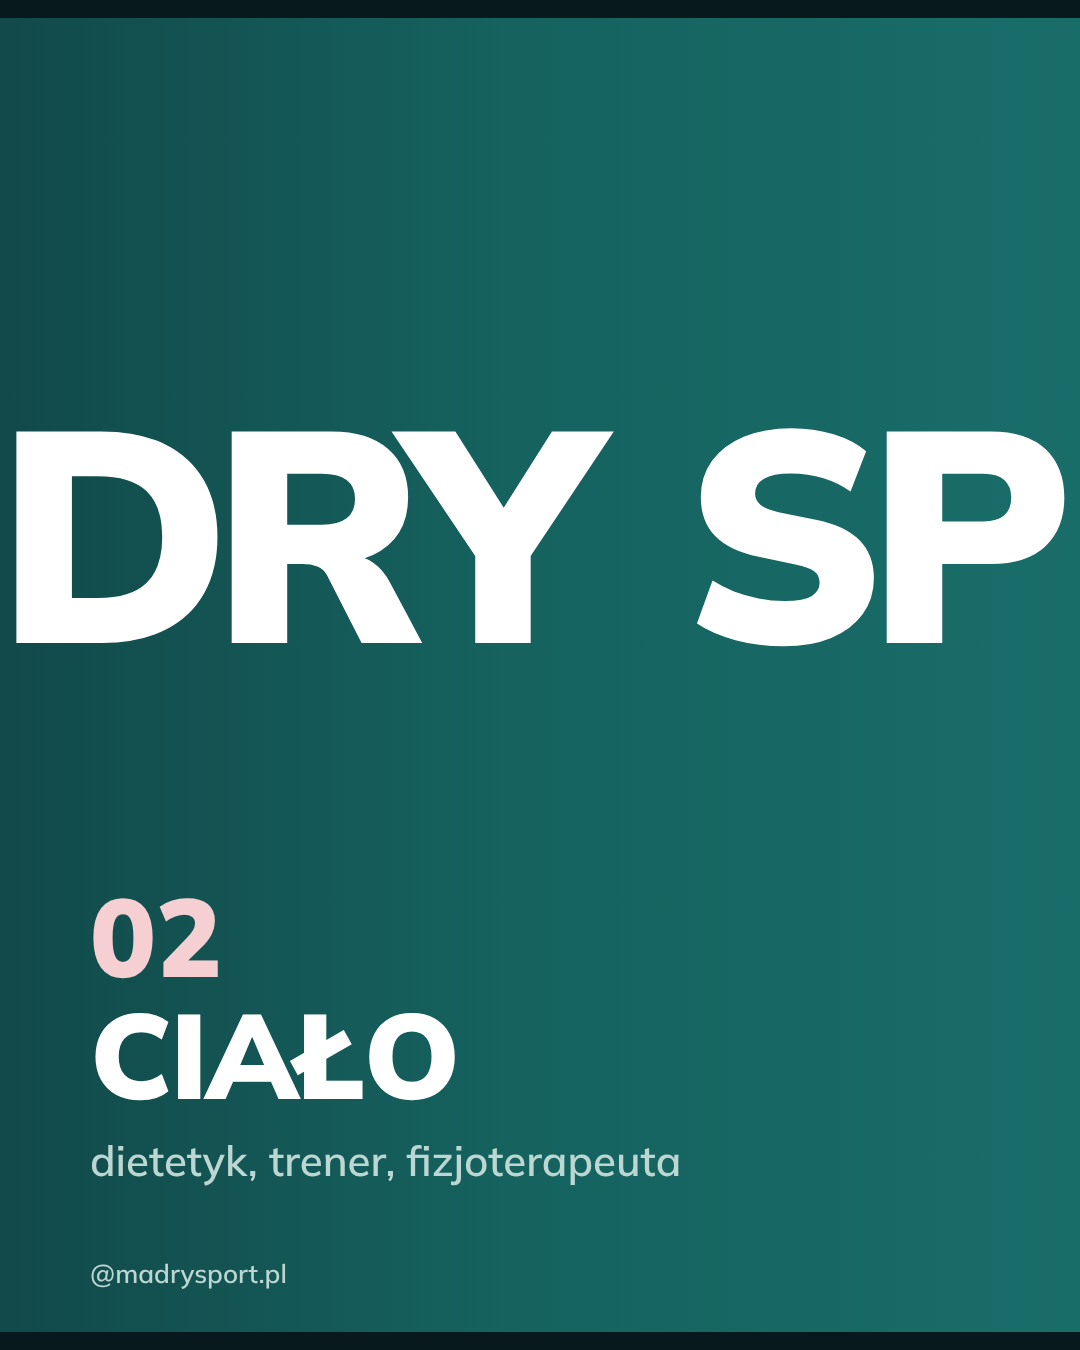
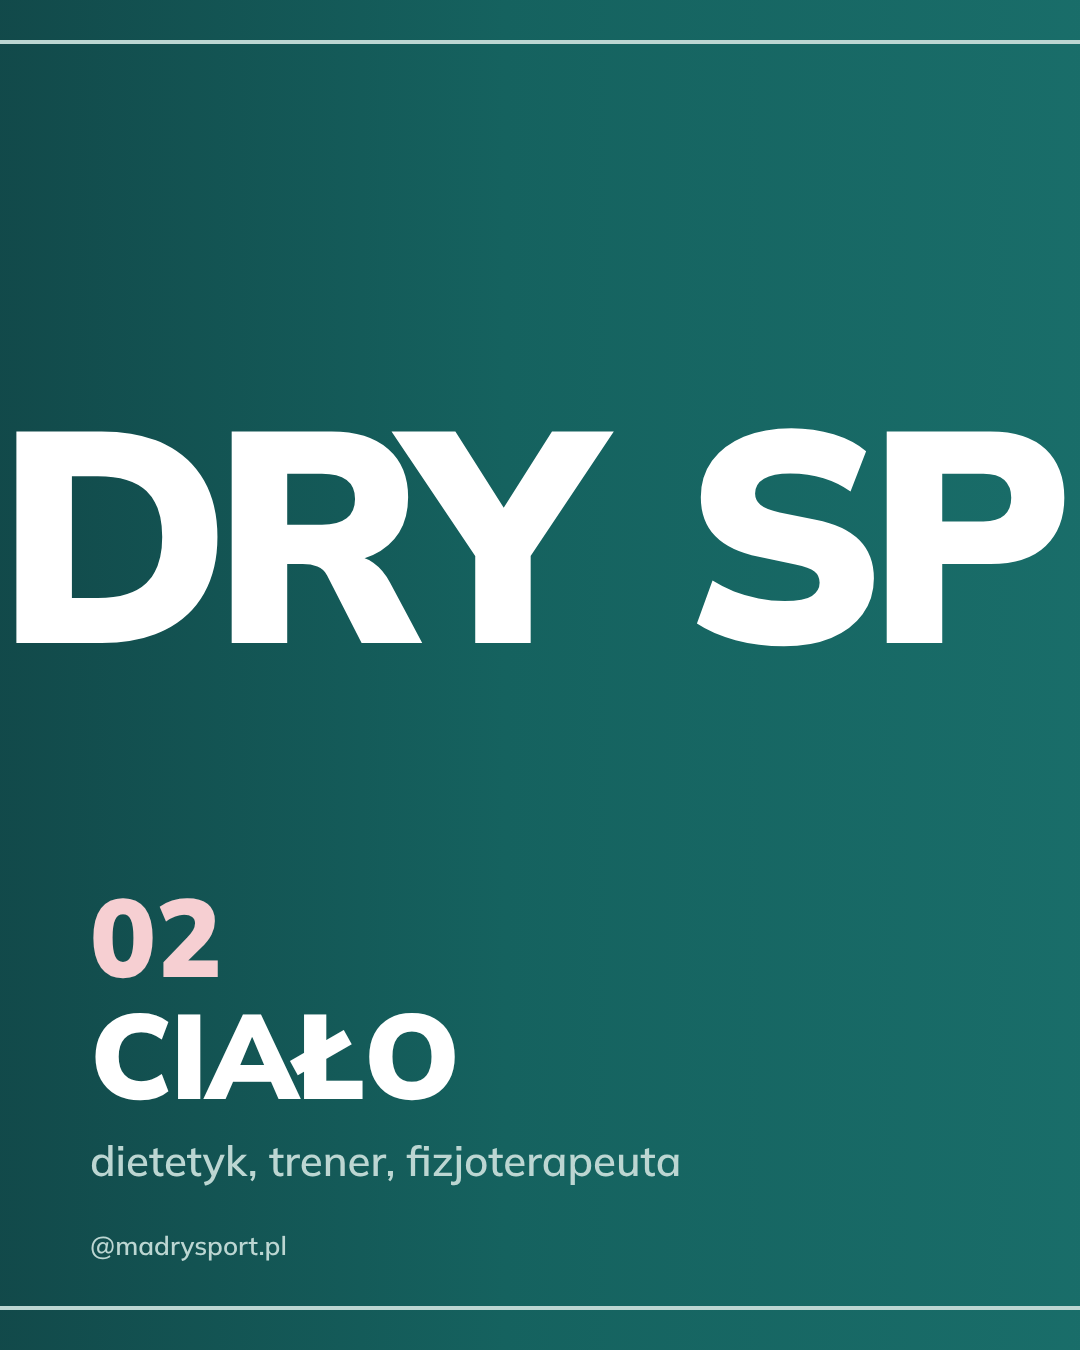
Mądry Sport: przypięte posty z miętową linią zamiast ciemnej ramki
Claude-Session: https://claude.ai/code/session_01A5PTvWpyS7iEo6fG2kmJPS

Changed region(s): [[0.0, 0.9022, 1.0, 1.0], [0.0, 0.0, 1.0, 0.0311]]

diff --git a/tools/przypiete-madry.js b/tools/przypiete-madry.js
@@ -10,7 +10,7 @@ const row=(v)=>{const tiles=[0,1,2].map(i=>{const t=v.tiles[i];return `<div clas
  <div class="b"><div class="k" style="color:${t.acc}">0${i+1}</div><div class="h" style="color:${t.ink}">${L[i][0]}</div><div class="s" style="color:${t.sub}">${L[i][1]}</div></div>
  <div class="f" style="color:${t.sub}">@madrysport.pl</div></div>`}).join('');return `<div class="lab"><b>${v.n}</b> ${v.name}</div><div class="row">${tiles}</div>`};
 const word=(c,fs,dot)=>`<div class="w" style="color:${c};font-size:${fs}px">MĄDRY<br>SPORT<span style="font-size:${fs*.36}px;color:${dot||c}">.pl</span></div>`;
-const G=`<div style="position:absolute;inset:0;border:18px solid #07191C;box-sizing:border-box;z-index:2"></div><div style="position:absolute;inset:0;background:linear-gradient(90deg,${DG} 0%,${DG} 12%,${TQ} 50%,${T2} 88%,${T2} 100%)"></div>`;
+const G=`<div style="position:absolute;inset:40px;border:4px solid #BCD6D2;box-sizing:border-box;z-index:2"></div><div style="position:absolute;inset:0;background:linear-gradient(90deg,${DG} 0%,${DG} 12%,${TQ} 50%,${T2} 88%,${T2} 100%)"></div>`;
 const tl=[{bg:'transparent',ink:'#fff',acc:PK,sub:MI},{bg:'transparent',ink:'#fff',acc:PK,sub:MI},{bg:'transparent',ink:'#fff',acc:PK,sub:LT}];
 const V=[{n:'1',sh:[0,-35,-47],name:'Ciasne litery, przerwy między Ą i D oraz P i O',tiles:tl,layer:G+`<div style="position:absolute;left:343px;top:330px;display:inline-flex;align-items:center;gap:56px">${shield('#fff',400)}<div class="w" style="color:#fff;font-size:300px;letter-spacing:-8px">M<span style="letter-spacing:55px">Ą</span><span style="letter-spacing:-19px">DRY</span><span style="letter-spacing:16px"> </span><span style="letter-spacing:-19px">S</span><span style="letter-spacing:22px">P</span>ORT<span style="font-size:110px;color:${PK};letter-spacing:0">.pl</span></div></div>`}];
 const html=`<!doctype html><meta charset=utf-8><style>
@@ -23,7 +23,7 @@ body{margin:0;background:#fff;font-family:M;width:1140px;padding:30px}
 .row{display:flex;gap:6px}.t{width:1080px;height:1350px;position:relative;overflow:hidden;flex:none}
 .w{font-weight:900;line-height:1.02;white-space:nowrap}
 .b{position:absolute;left:90px;right:80px;bottom:160px}.k{font-weight:900;font-size:110px;line-height:1}.h{font-weight:900;font-size:120px;line-height:1.05;letter-spacing:-2px}.s{font-weight:600;font-size:42px;line-height:1.35;margin-top:16px}
-.f{position:absolute;left:90px;bottom:60px;font-weight:600;font-size:26px}
+.f{position:absolute;left:90px;bottom:88px;font-weight:600;font-size:26px}
 </style>${V.map(row).join('')}`;
 fs.writeFileSync(path.join(T,'.pano.html'),html);
 (async()=>{const {chromium}=require('playwright');const g=fs.readdirSync('/opt/pw-browsers').filter(d=>d.startsWith('chromium_headless_shell')).sort().reverse();
